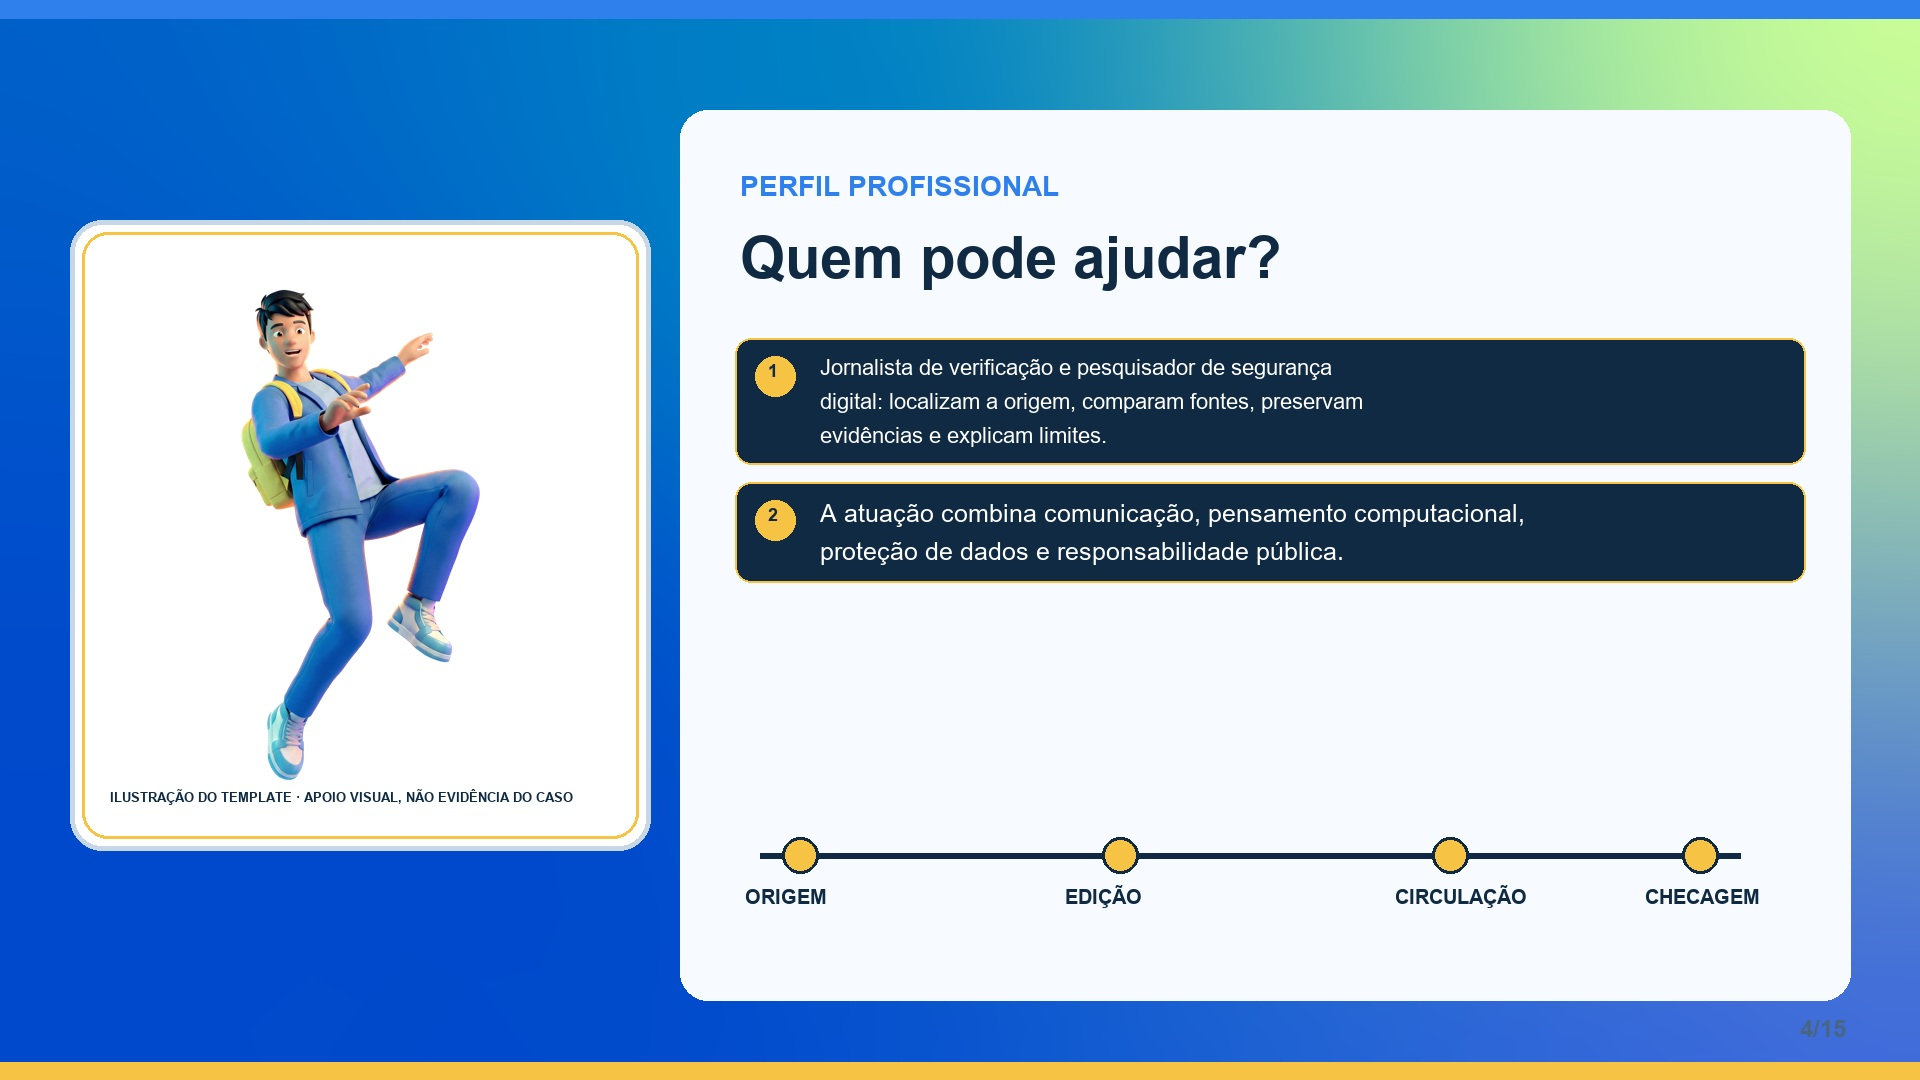
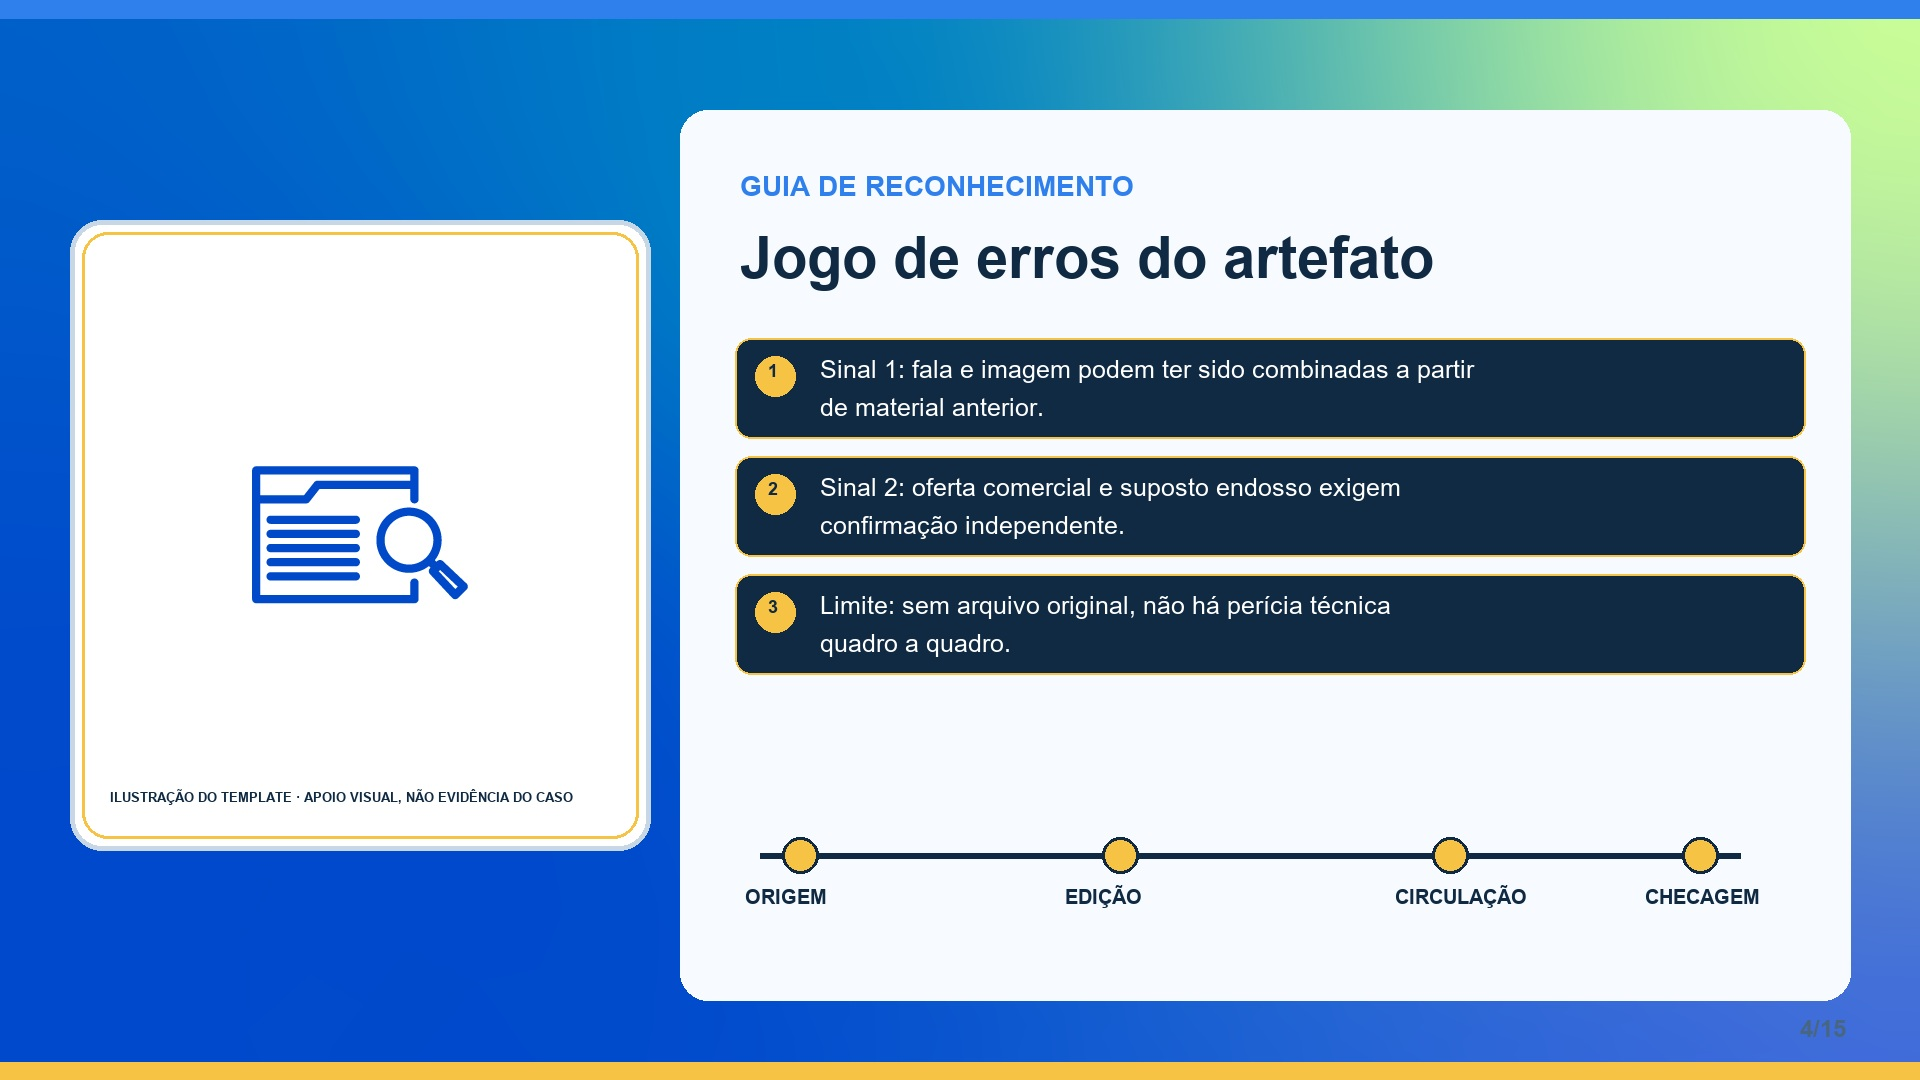
refactor: alinhar slides ao roteiro n3

diff --git a/index.html b/index.html
@@ -25,7 +25,7 @@ body{background:#dfeaf4;color:var(--theme-blue);font-size:clamp(1rem,1.5vw,1.25r
 <a class="skip" href="#slide-01">Ir para a apresentação</a>
 <nav class="index" aria-label="Navegação entre slides"><a href="#slide-01" aria-label="Slide 1">1</a><a href="#slide-02" aria-label="Slide 2">2</a><a href="#slide-03" aria-label="Slide 3">3</a><a href="#slide-04" aria-label="Slide 4">4</a><a href="#slide-05" aria-label="Slide 5">5</a><a href="#slide-06" aria-label="Slide 6">6</a><a href="#slide-07" aria-label="Slide 7">7</a><a href="#slide-08" aria-label="Slide 8">8</a><a href="#slide-09" aria-label="Slide 9">9</a><a href="#slide-10" aria-label="Slide 10">10</a><a href="#slide-11" aria-label="Slide 11">11</a><a href="#slide-12" aria-label="Slide 12">12</a><a href="#slide-13" aria-label="Slide 13">13</a><a href="#slide-14" aria-label="Slide 14">14</a><a href="#slide-15" aria-label="Slide 15">15</a></nav>
 <main class="deck" aria-label="15 slides JPG da apresentação N3">
-<img id="slide-01" class="slide" tabindex="0" src="slides/slide-01.jpg" alt="Slide 1: capa do projeto"><img id="slide-02" class="slide" tabindex="0" src="slides/slide-02.jpg" alt="Slide 2: problema digital"><img id="slide-03" class="slide" tabindex="0" src="slides/slide-03.jpg" alt="Slide 3: artefato digital analisado"><img id="slide-04" class="slide" tabindex="0" src="slides/slide-04.jpg" alt="Slide 4: perfil profissional"><img id="slide-05" class="slide" tabindex="0" src="slides/slide-05.jpg" alt="Slide 5: descrição do problema"><img id="slide-06" class="slide" tabindex="0" src="slides/slide-06.jpg" alt="Slide 6: causa raiz"><img id="slide-07" class="slide" tabindex="0" src="slides/slide-07.jpg" alt="Slide 7: riscos sociais"><img id="slide-08" class="slide" tabindex="0" src="slides/slide-08.jpg" alt="Slide 8: fundamentação"><img id="slide-09" class="slide" tabindex="0" src="slides/slide-09.jpg" alt="Slide 9: recomendações públicas"><img id="slide-10" class="slide" tabindex="0" src="slides/slide-10.jpg" alt="Slide 10: público e linguagem"><img id="slide-11" class="slide" tabindex="0" src="slides/slide-11.jpg" alt="Slide 11: explicação técnica"><img id="slide-12" class="slide" tabindex="0" src="slides/slide-12.jpg" alt="Slide 12: impactos sociais"><img id="slide-13" class="slide" tabindex="0" src="slides/slide-13.jpg" alt="Slide 13: peça visual da campanha"><img id="slide-14" class="slide" tabindex="0" src="slides/slide-14.jpg" alt="Slide 14: conclusão"><img id="slide-15" class="slide" tabindex="0" src="slides/slide-15.jpg" alt="Slide 15: referências">
+<img id="slide-01" class="slide" tabindex="0" src="slides/slide-01.jpg" alt="Slide 1: capa do projeto"><img id="slide-02" class="slide" tabindex="0" src="slides/slide-02.jpg" alt="Slide 2: problema digital"><img id="slide-03" class="slide" tabindex="0" src="slides/slide-03.jpg" alt="Slide 3: artefato digital analisado"><img id="slide-04" class="slide" tabindex="0" src="slides/slide-04.jpg" alt="Slide 4: guia de reconhecimento"><img id="slide-05" class="slide" tabindex="0" src="slides/slide-05.jpg" alt="Slide 5: descrição do problema"><img id="slide-06" class="slide" tabindex="0" src="slides/slide-06.jpg" alt="Slide 6: guia de convivência"><img id="slide-07" class="slide" tabindex="0" src="slides/slide-07.jpg" alt="Slide 7: riscos sociais"><img id="slide-08" class="slide" tabindex="0" src="slides/slide-08.jpg" alt="Slide 8: fundamentação"><img id="slide-09" class="slide" tabindex="0" src="slides/slide-09.jpg" alt="Slide 9: recomendações públicas"><img id="slide-10" class="slide" tabindex="0" src="slides/slide-10.jpg" alt="Slide 10: público, linguagem e organização"><img id="slide-11" class="slide" tabindex="0" src="slides/slide-11.jpg" alt="Slide 11: explicação técnica"><img id="slide-12" class="slide" tabindex="0" src="slides/slide-12.jpg" alt="Slide 12: impactos sociais"><img id="slide-13" class="slide" tabindex="0" src="slides/slide-13.jpg" alt="Slide 13: peça visual da campanha"><img id="slide-14" class="slide" tabindex="0" src="slides/slide-14.jpg" alt="Slide 14: conclusão"><img id="slide-15" class="slide" tabindex="0" src="slides/slide-15.jpg" alt="Slide 15: referências">
 </main>
 <section class="sources" aria-labelledby="sources-title"><h2 id="sources-title">Fontes visuais verificáveis</h2><p>As reportagens contêm os registros visuais do caso. Eles permanecem nos sites originais por direitos autorais; os diagramas desta apresentação são autorais.</p><p><a href="https://www.cnnbrasil.com.br/pop/marcos-palmeira-rosto-do-ator-e-usado-em-golpe-de-ia-no-instagram/">CNN Brasil — reportagem de 08 jun. 2024</a> · <a href="https://noticias.uol.com.br/confere/ultimas-noticias/2026/02/09/falso-marcos-palmeira-vaquinha-cao-orelha-golpe.htm">UOL Confere — checagem de 09 fev. 2026</a> · <a href="https://commons.wikimedia.org/wiki/File:Deepfake.jpg">Wikimedia Commons — ilustração CC BY-SA 2.0</a></p></section>
 <footer class="privacy" aria-label="Privacidade"><p>Site estático: sem coleta, cookies próprios ou rastreamento.</p><a href="privacidade.html">Aviso de privacidade</a></footer>

diff --git a/scripts/generate_n3_jpgs.py b/scripts/generate_n3_jpgs.py
@@ -7,13 +7,13 @@ S=[
 ('CAPA','Deepfake em publicidade',['Maratona Tech 2026 · Nível 3','Caso brasileiro: uso não autorizado de imagem e voz sintética atribuído a Marcos Palmeira.'],'template-icones-ilustracoes-007.png'),
 ('PROBLEMA DIGITAL','Qual é o problema?',['Publicidade digital pode simular o endosso de uma pessoa real usando IA.','O caso circulou no Instagram e promovia um kit de ferramentas.','Relevância: imagem, voz, confiança e possível pagamento são envolvidos.'],'template-icones-ilustracoes-029.png'),
 ('ARTEFATO DIGITAL','O conteúdo analisado',['Reconstituição esquemática baseada na reportagem: vídeo com imagem prévia do ator + voz sintética + oferta comercial.','A reportagem da CNN Brasil é a evidência disponível; o arquivo original do anúncio não foi recuperado.','Não é possível afirmar hash, metadados, autoria ou perícia quadro a quadro.'],'template-icones-ilustracoes-008.png'),
-('PERFIL PROFISSIONAL','Quem pode ajudar?',['Jornalista de verificação e pesquisador de segurança digital: localizam a origem, comparam fontes, preservam evidências e explicam limites.','A atuação combina comunicação, pensamento computacional, proteção de dados e responsabilidade pública.'],'template-icones-ilustracoes-007.png'),
+('GUIA DE RECONHECIMENTO','Jogo de erros do artefato',['Sinal 1: fala e imagem podem ter sido combinadas a partir de material anterior.','Sinal 2: oferta comercial e suposto endosso exigem confirmação independente.','Limite: sem arquivo original, não há perícia técnica quadro a quadro.'],'template-icones-ilustracoes-026.png'),
 ('RELATÓRIO TÉCNICO · 1','Descrição do problema digital',['O ator afirmou à CNN Brasil que sua imagem foi usada sem autorização em um golpe publicitário com IA.','Onde: perfil no Instagram. Quem foi impactado primeiro: o titular da imagem e usuários expostos ao anúncio.','Fonte: CNN Brasil, 08 jun. 2024.'],'template-icones-ilustracoes-018.png'),
-('RELATÓRIO TÉCNICO · 2','Identificação da causa-raiz',['Causa-raiz provável: combinação de mídia sintética, identidade pública reutilizável, distribuição algorítmica e incentivo econômico ao clique.','Fatores do modelo N3: uso indevido de IA, busca por engajamento, falta de verificação e desinformação intencional.','Autoria do golpe permanece hipótese.'],'template-icones-ilustracoes-026.png'),
+('GUIA DE CONVIVÊNCIA','Como reduzir danos',['Não clicar, pagar ou fornecer dados antes de confirmar a origem.','Preservar URL e denunciar o anúncio sem expor pessoas ou vítimas.','Separar crítica ao conteúdo de acusação sem evidência.'],'template-icones-ilustracoes-040.png'),
 ('RELATÓRIO TÉCNICO · 3','Diagnóstico dos riscos sociais',['Informacional: fala inexistente parece autêntica.','Econômico: usuário pode pagar ou fornecer dados.','Emocional: confiança e urgência reduzem a checagem.','Coletivo: enfraquece a confiança em imagens e vozes como evidência.'],'template-icones-ilustracoes-049.png'),
 ('RELATÓRIO TÉCNICO · 4','Fundamentação da análise',['Dados pessoais: imagem e voz identificáveis.','Conceitos: deepfake, alteração intencional, algoritmo, rastro digital e desinformação ampliada.','Base: Mirsky e Lee (2021); Vaccari e Chadwick (2020); Rößler et al. (2019); LGPD (Brasil, 2018).'],'template-icones-ilustracoes-075.png'),
 ('RELATÓRIO TÉCNICO · 5','Recomendações públicas',['Usuário: não pagar nem informar dados; confirmar em canal oficial; guardar URL e denunciar.','Escola: ensinar triangulação, cadeia de evidências e proteção da imagem/voz.','Plataforma: revisar anúncios, preservar evidências, rotular mídia sintética e responder às denúncias.'],'template-icones-ilustracoes-040.png'),
-('CAMPANHA · 1','Público e linguagem',['Público: estudantes, famílias e comunidade escolar.','Linguagem: direta, não sensacionalista, visual e acessível.','Mensagem central: rosto conhecido não é prova de autorização.'],'template-icones-ilustracoes-100.png'),
+('CAMPANHA · 1','Público, linguagem e organização',['Público: estudantes, famílias e comunidade escolar.','Linguagem: direta, não sensacionalista, visual e acessível.','Organização: pesquisa, análise e comunicação revisam fontes, evidências e créditos.'],'template-icones-ilustracoes-100.png'),
 ('CAMPANHA · 2','Explicação técnica simplificada',['Deepfake é conteúdo audiovisual alterado ou criado com IA para parecer que uma pessoa disse ou fez algo.','No caso, a aparência de fala foi associada a uma oferta comercial que o ator declarou não ter autorizado.'],'template-icones-ilustracoes-007.png'),
 ('CAMPANHA · 3','Impactos destacados',['Fraude econômica, coleta indevida de dados, desinformação e perda de confiança.','A campanha orienta sem culpar vítimas e sem expor dados pessoais.'],'template-icones-ilustracoes-106.png'),
 ('CAMPANHA · 4','Peça visual da campanha',['PARE · CONFIRME · DENUNCIE','1. Pause antes de clicar. 2. Confirme no canal oficial. 3. Não forneça dados. 4. Denuncie e preserve o link.','Peça de conscientização; não é anúncio real.'],'template-icones-ilustracoes-007.png'),
